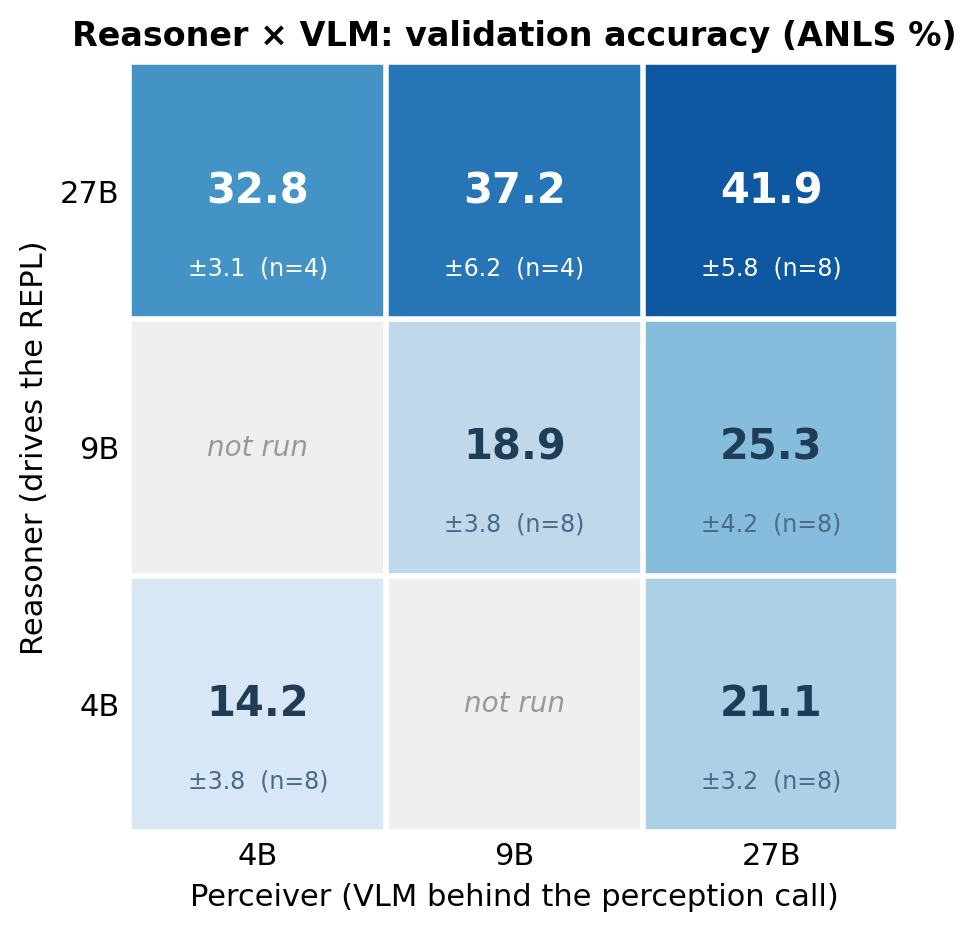
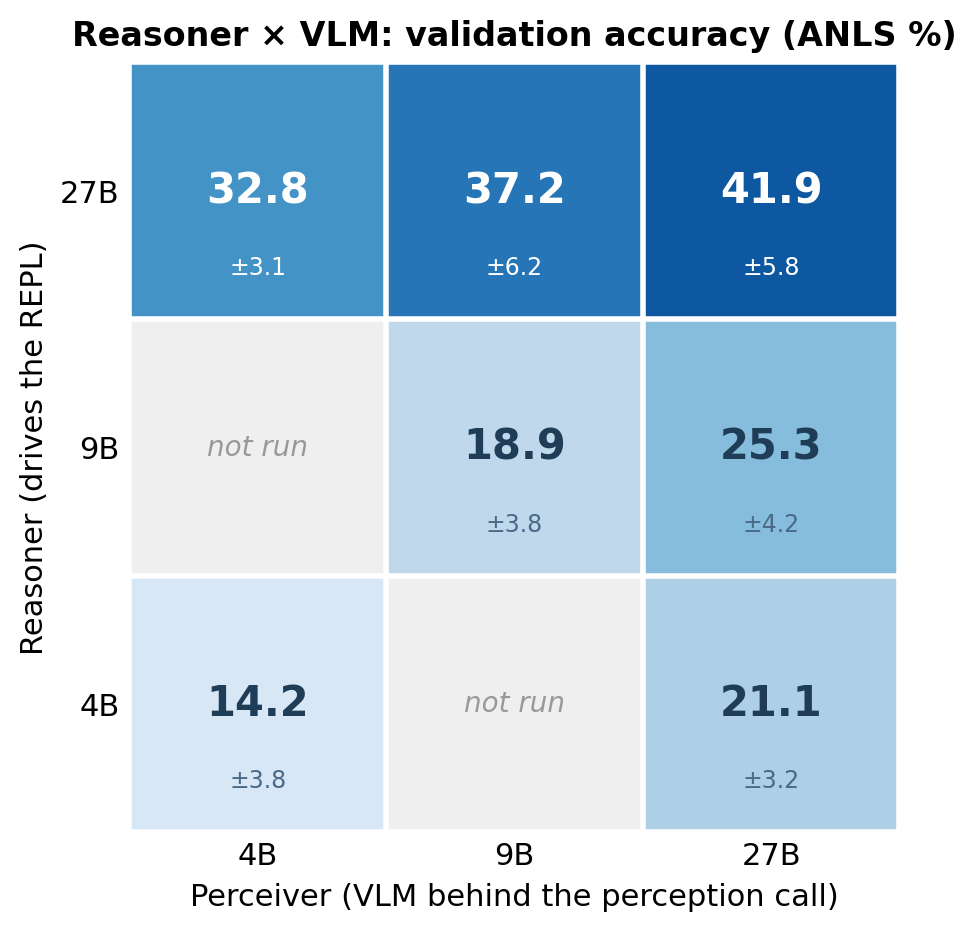
docs(blog): drop per-cell n from matrix figure

diff --git a/docs/blog/make_figures.py b/docs/blog/make_figures.py
@@ -131,8 +131,6 @@ def fig5_matrix():
     std = np.array([[3.83, np.nan, 3.16],
                     [np.nan, 3.81, 4.16],
                     [3.13, 6.2, 5.79]])
-    n = np.array([[8, 0, 8], [0, 8, 8], [4, 4, 8]])
-
     fig, ax = plt.subplots(figsize=(6.2, 5.0))
     masked = np.ma.masked_invalid(mean)
     cmap = plt.get_cmap("Blues").copy()
@@ -149,7 +147,7 @@ def fig5_matrix():
                         ha="center", va="center", fontsize=15,
                         fontweight="bold",
                         color="white" if dark else "#1f3d57")
-                ax.text(j, i - 0.30, f"±{std[i, j]:.1f}  (n={n[i, j]})",
+                ax.text(j, i - 0.30, f"±{std[i, j]:.1f}",
                         ha="center", va="center", fontsize=8.5,
                         color="white" if dark else "#4a6a88")
     ax.set_xticks(range(3), sizes)

diff --git a/docs/blog/draft.md b/docs/blog/draft.md
@@ -365,8 +365,9 @@ call.
 
 ![](f5-matrix.png){fig-alt="heatmap of the reasoner-by-VLM matrix: accuracy rises modestly left to right with a stronger VLM and sharply bottom to top with a stronger reasoner"}
 
-**Figure 5.** Validation accuracy (ANLS %; mean, ± std, and n per cell) for each
-reasoner × VLM pairing of Qwen 3.5 4B/9B/27B, all under the same RLM harness.
+**Figure 5.** Validation accuracy (ANLS %, mean ± std over 4–8 trials per cell)
+for each reasoner × VLM pairing of Qwen 3.5 4B/9B/27B, all under the same RLM
+harness.
 Grey cells were not run. The 4B- and 9B-reasoner rows use a minimally different
 prompt variant of the same solver (identical harness and tools); the 27B row uses
 the exact configuration reported everywhere else in the post.
